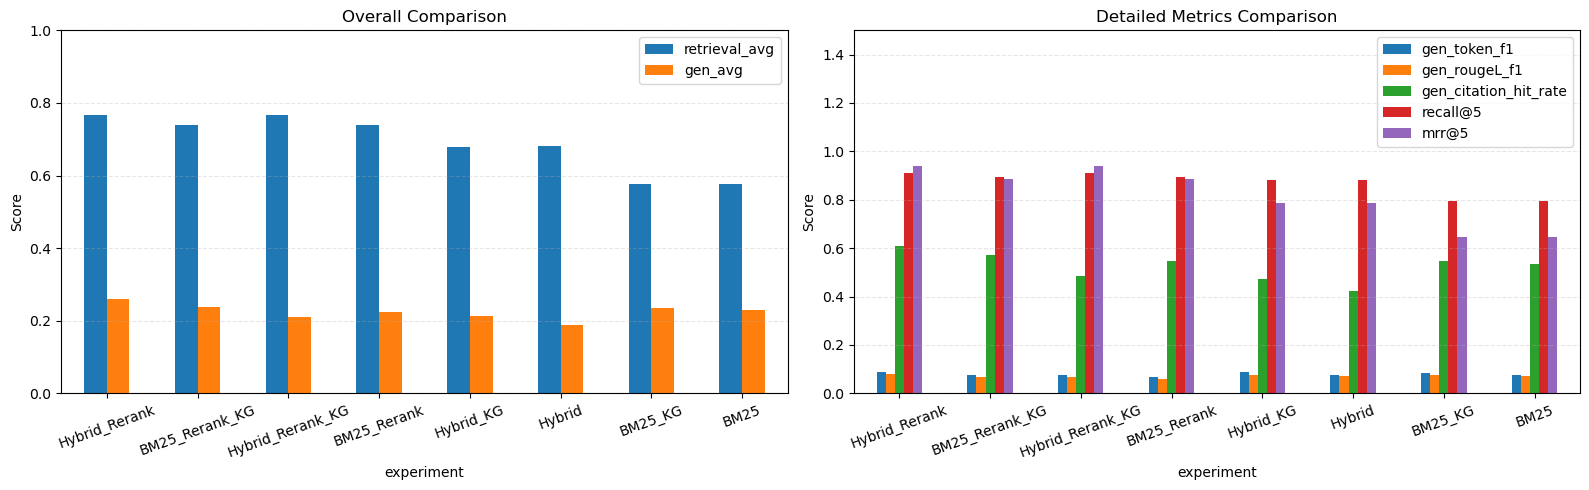
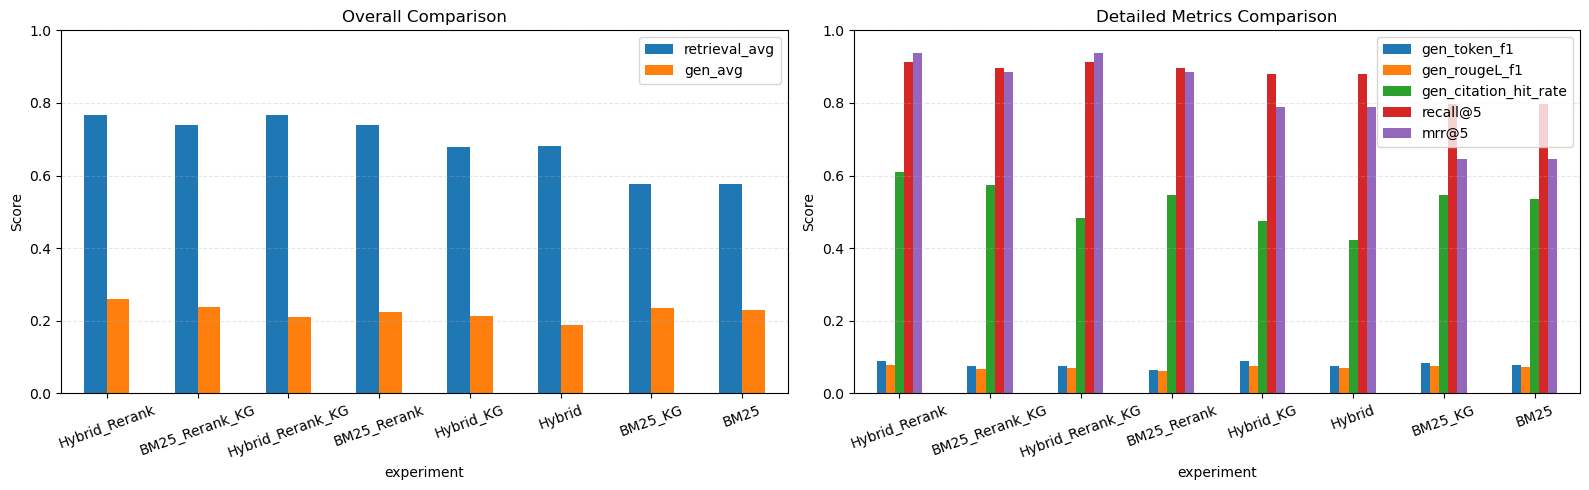
feat: IMPROVEMENT SUGGESTIONS updated

diff --git a/docs/metrics_eval_report.md b/docs/metrics_eval_report.md
@@ -192,15 +192,14 @@ Within the same combined score, ties are broken by `gen_avg` then `retrieval_avg
 
 ## 6. Improvement Recommendations
 
-1. Investigate why KG and Rerank conflict — consider applying KG boost only to BM25 or as a pre-rerank filter.
-2. Improve citation quality: citation_hit_rate is the dominant gen_avg term; improving citation extraction or
-   format consistency will have the largest impact on overall score.
-3. Expand GT set further (currently 32 questions) to reduce per-metric variance — especially for MRR and MAP
-   which are sensitive to single-question rank flips.
-4. Tune `HYBRID_ALPHA` to find the optimal BM25/vector blend; current results show Hybrid retrieval
-   (recall 0.880) slightly below BM25_Rerank recall (0.896) before rerank.
-5. Consider evaluating semantic similarity (BERTScore) alongside ROUGE/token-F1 to better capture
-   semantically correct but lexically different answers.
+For strategy-level operational guidance aligned with these findings, also see:
+`docs/rag_strategies_guide.md` section "Latest Actionable Recommendations".
+
+1. Keep `ENABLE_KG=false` when `ENABLE_RERANK=true` for now; if KG is needed, test it as BM25-only assist or pre-rerank filter with strict A/B checks.
+2. Prioritize `citation_hit_rate` improvements (citation extraction and citation format normalization), since it is the strongest contributor to `gen_avg` in this batch.
+3. Expand and diversify the GT set (currently 32 questions), especially low-frequency legal scenarios, to reduce variance in MRR/MAP conclusions.
+4. Jointly tune `HYBRID_ALPHA` and `RERANK_CANDIDATE_K`; compare BM25_Rerank vs Hybrid_Rerank to verify whether vector retrieval is adding consistent incremental value.
+5. Add semantic generation metrics (e.g., BERTScore) and targeted error slicing for `exact_match=0` cases to capture semantic correctness beyond lexical overlap.
 
 ## 7. Reproducibility Commands
 

diff --git a/docs/rag_strategies_guide.md b/docs/rag_strategies_guide.md
@@ -135,6 +135,8 @@ Pros:
 Cons:
 - Highest latency and operational complexity.
 - More tuning knobs (`HYBRID_ALPHA`, `KG_BOOST_WEIGHT`, candidate_k, rerank model).
+- In the latest 32-question evaluation, KG + rerank under the hybrid path reduced generation quality
+	versus rerank-only (especially citation hit rate), so this setup should be validated per workload.
 
 Best use cases:
 - High-stakes legal/tax QA where answer quality is prioritized over latency.
@@ -177,7 +179,7 @@ Use when:
 | Fast baseline with balanced quality | Strategy A |
 | Better precision / less noisy top-k | Strategy B |
 | Entity-heavy legal references | Strategy C |
-| Best overall quality (higher latency) | Strategy D |
+| Best overall quality in latest run | Strategy B (Hybrid + Rerank, KG off) |
 | Embedding outage or low budget | BM25-only mode |
 
 ## 6. Current Project Reality Check
@@ -207,3 +209,12 @@ Track at least:
 - Cost/latency: average retrieval+rereank time per query
 
 This makes strategy trade-offs explicit and reproducible.
+
+## 8. Latest Actionable Recommendations
+Based on the latest evaluation batch (32 questions):
+
+1. Keep `ENABLE_KG=false` when `ENABLE_RERANK=true` for now; if KG is needed, test it as BM25-only assist or pre-rerank filter with strict A/B checks.
+2. Prioritize `citation_hit_rate` improvements (citation extraction and citation format normalization), since it is the strongest contributor to `gen_avg` in this batch.
+3. Expand and diversify the GT set (currently 32 questions), especially low-frequency legal scenarios, to reduce variance in MRR/MAP conclusions.
+4. Jointly tune `HYBRID_ALPHA` and `RERANK_CANDIDATE_K`; compare BM25_Rerank vs Hybrid_Rerank to verify whether vector retrieval is adding consistent incremental value.
+5. Add semantic generation metrics (e.g., BERTScore) and targeted error slicing for `exact_match=0` cases to capture semantic correctness beyond lexical overlap.

diff --git a/README_CN.md b/README_CN.md
@@ -66,6 +66,7 @@ qa_agent_legal_tax/
 │   ├── metrics_eval_report.md
 │   ├── chunking_strategies_guide.md
 │   ├── rag_strategies_guide.md
+│   ├── knowledge_graph_guide.md
 ├── notebooks/                  # Notebook Web UI
 ├── tests/                      # 单元测试
 ├── config.py                   # 配置管理
@@ -81,6 +82,8 @@ qa_agent_legal_tax/
 - `docs/metrics_eval_report.md`：说明检索与生成指标定义，汇总最近实验结果，并给出诊断与改进建议。
 - `docs/chunking_strategies_guide.md`：总结当前项目中的分块策略实现、优缺点与适用场景。
 - `docs/rag_strategies_guide.md`：说明当前 RAG 策略组合（Hybrid、Rerank、KG）及其优劣与选型建议。
+    - 快速入口：可直接查看其中 `Latest Actionable Recommendations` 小节获取当前批次可落地建议。
+- `docs/knowledge_graph_guide.md`：系统说明 KG 的实现方式（实体抽取、图构建、查询扩展、打分增益）、配置项与实验表现。
 
 ## 安装与快速开始
 
@@ -277,8 +280,8 @@ flake8 src/
 - [X] 评估结果集
 - [X] Web UI（Notebook + Gradio）
 - [X] 知识图谱
+- [X] 法律领域微调模型
 - [ ] API 接口
-- [ ] 法律领域微调模型
 - [ ] 财务报表生成能力
 - [ ] 交互式文档上传
 

diff --git a/README.md b/README.md
@@ -82,6 +82,7 @@ The following documents are maintained under `docs/`:
 - `docs/metrics_eval_report.md`: Explains retrieval/generation metric definitions, summarizes latest experiment results, and provides diagnosis plus improvement recommendations.
 - `docs/chunking_strategies_guide.md`: Summarizes the active chunking strategies, trade-offs, and recommended usage scenarios in this project.
 - `docs/rag_strategies_guide.md`: Documents current RAG strategy variants (hybrid, rerank, KG), with pros/cons and strategy selection guidance.
+  - Quick entry: see section `Latest Actionable Recommendations` for the most recent operation-ready guidance.
 - `docs/knowledge_graph_guide.md`: Details KG implementation (entity extraction, graph build, query expansion, scoring boost), configuration knobs, and observed behavior in evaluation.
 
 ## Installation & Quick Start
@@ -282,8 +283,8 @@ Hybrid retrieval combines:
 - [X] Evaluation Metrics
 - [X] Web UI interface (notebook + Gradio)
 - [X] Knowledge Graph
+- [X] Fine-tuned models for legal domain
 - [ ] API endpoints
-- [ ] Fine-tuned models for legal domain
 - [ ] Financial report generation
 - [ ] Interactive document upload
 
